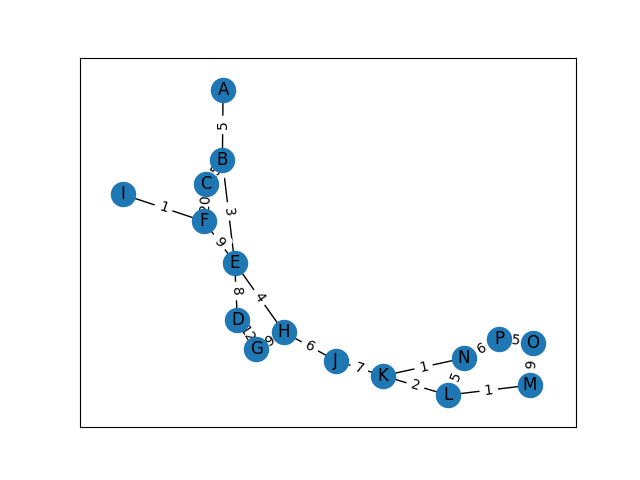
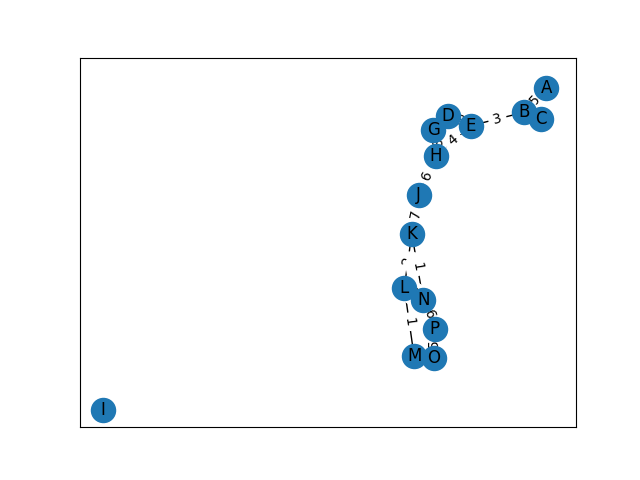
Added implementation of removing node with the greatest failure

diff --git a/graph.py b/graph.py
@@ -20,13 +20,7 @@ def mainMenu(graph, failures):
 
             #continue
         if user == "1":
-            #call the simulation
-            pos=nx.spring_layout(graph)
-            nx.draw_networkx(graph,pos)
-            labels = nx.get_edge_attributes(graph,'weight')
-            nx.draw_networkx_edge_labels(graph,pos,edge_labels=labels)
-            plt.savefig("simulated_graph.png")
-                        
+            #call the simulation           
             print("User chose 1")
             simulation(graph, failures)
         elif user == "2":
@@ -49,7 +43,7 @@ def simulation(graph, failures):
     print("Inside of simulation")
     randomFailures = []
     i =0
-    #Randomly Generating failures for each node
+    #Randomly Generating failures between 0 and 1 for each node
     #------------------------------------------
     while i < len(failures):
         fail = random.uniform(0,1)
@@ -58,21 +52,66 @@ def simulation(graph, failures):
         i += 1
     print("Random Failures array: ", randomFailures)
 
-def simulate_failure(probability):
+    #for each node in the passed in failures and randomly generated failures, check if the value is higher in the random failures
+    #if so keep the index of the node and if there's multiple, check which value has the greatest; if equal delete the one with highest weighted edge
+    #-------------------------------------------------------------------------------------------------------------------------------------------------
+    deleteIndex = []
+    for x, y in zip(failures, randomFailures):
+        #x = element in failures
+        #y = element in randomFailures
+        if y > x:
+            deleteIndex.append(randomFailures.index(y))
+            print("The element in failures: ", x)
+            print("The element in random failures: ", y)
+
+    print("List of indices of elements to delete: ", deleteIndex)
+    #check if the size of the list of possible to be deleted nodes greater than 1, if so check which one has the largest difference
+    differences = []
+    if len(deleteIndex) > 1:
+        for e in deleteIndex:
+            diff = randomFailures[e] - failures[e]
+            differences.append(diff)
+    
+        print("Differences: ", differences)
+        #finding largest difference and storing its index to use to get node supposed to delete from graph
+        idx = differences.index(max(differences))
+        print("Want index of the largest difference: ", idx)
+
+    else:
+        #means there was only one node in the graph who's random failure was greater than their initital
+        #then the element you want to delete is the index provided in the deleteIndex list
+        idx = deleteIndex[0]
+    
+    #getting list of nodes to retrieve the node at the founded index that had the largest failure difference
+    nodeList = list(graph.nodes)
+    node = nodeList[idx]
+    print("Node want to delete: ", node)
+    #removing node
+    graph.remove_node(node)
+
+    #printing new graph with removed node
+    #***ADD HERE HOW TO RECONNECT GRAPH WITH DIJKSTRA and will print the graph with node removed and it being reconnected***
+    pos=nx.spring_layout(graph)
+    nx.draw_networkx(graph,pos)
+    labels = nx.get_edge_attributes(graph,'weight')
+    nx.draw_networkx_edge_labels(graph,pos,edge_labels=labels)
+    plt.savefig("simulated_graph.png")
+
+#def simulate_failure(probability):
     """_summary_
 
     Args:
         probability (_type_): _description_
     """
      # Generate a random number between 0 and 1
-    rand_num = np.random.random()
+    #rand_num = np.random.random()
     
     # If the random number is less than the given probability,
     # the node/link is considered failed
-    if rand_num < probability:
-        return True
-    else:
-        return False
+    #if rand_num < probability:
+        #return True
+    #else:
+        #return False
 
 
 def main():
